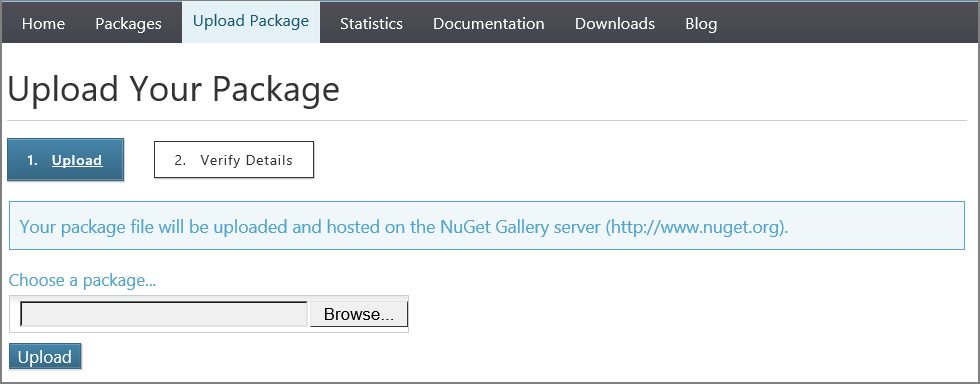
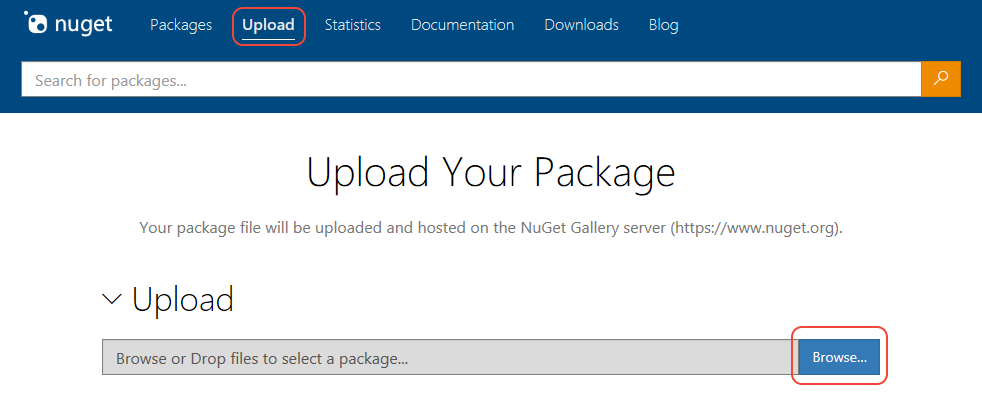
Rev VS 2015 guide and update publishing images Fix https://github.com/NuGet/docs.microsoft.com-nuget/issues/535

diff --git a/docs/create-packages/Publish-a-package.md b/docs/create-packages/Publish-a-package.md
@@ -3,7 +3,7 @@ title: How to Publish a NuGet Package | Microsoft Docs
 author: kraigb
 ms.author: kraigb
 manager: ghogen
-ms.date: 10/05/2017
+ms.date: 03/19/2018
 ms.topic: article
 ms.prod: nuget
 ms.technology: null
@@ -19,32 +19,46 @@ ms.reviewer:
 
 Once you have created a package and have your `.nukpg` file in hand, it's a simple process to make it available to other developers, either publicly or privately:
 
-- Public packages are made available to all developers globally through [nuget.org](https://www.nuget.org/packages/manage/upload) as described in this topic.
+- Public packages are made available to all developers globally through [nuget.org](https://www.nuget.org/packages/manage/upload) as described in this article (requires NuGet 4.1.0+).
 - Private packages are available to only a team or organization, by hosting them either a file share, a private NuGet server, [Visual Studio Team Services Package Management](https://www.visualstudio.com/docs/package/nuget/publish), or a third-party repository such as myget, ProGet, Nexus Repository, and Artifactory. For additional details, see [Hosting Packages Overview](../hosting-packages/overview.md).
 
-This topic covers publishing to nuget.org; for publishing to Visual Studio Team Services, see [Package Management](https://www.visualstudio.com/docs/package/nuget/publish).
+This article covers publishing to nuget.org; for publishing to Visual Studio Team Services, see [Package Management](https://www.visualstudio.com/docs/package/nuget/publish).
 
 ## Publish to nuget.org
 
-For nuget.org, you must first [register for a free account](https://www.nuget.org/users/account/LogOn?returnUrl=%2F) or sign in if already registered:
+For nuget.org, you must sign in with a Microsoft account, with which you'll be asked to register the account with nuget.org. You can also sign in with a nuget.org account created using older versions of the portal.
 
-![NuGet registration and sign in location](media/publish_NuGetSignIn.png)
+![NuGet sign in location](media/publish_NuGetSignIn.png)
 
 Next, you can either upload the package through the nuget.org web portal, push to nuget.org from the command line (requires `nuget.exe` 4.1.0+) , or publish as part of a CI/CD process through Visual Studio Team Services, as described in the following sections.
 
 ### Web portal: use the Upload Package tab on nuget.org
 
-![Upload a package with the NuGet Package Manager](media/publish_UploadYourPackage.PNG)
+1. Select **Upload** on the top menu of nuget.org and browse to the package location.
+
+    ![Upload a package on nuget.org](media/publish_UploadYourPackage.PNG)
+
+1. nuget.org tells you if the package name is available. If it isn't, change the package identifier in your project, rebuild, and try the upload again.
+
+1. If the package name is available, nuget.org opens a **Verify** section in which you can review the metadata from the package manifest. To change any of the metadata, edit your project (project file or `.nuspec` file), rebuild, recreate the package, and upload again.
+
+1. Under **Import Documentation** you can paste Markdown, point to your docs with a URL, or upload a documentation file.
+
+1. When all the information is ready, select the **Submit** button
 
 ### Command line
 
-> [!Important]
-> To push packages to nuget.org you must use [nuget.exe v4.1.0 or above](https://www.nuget.org/downloads), which implements the required [NuGet protocols](../api/nuget-protocols.md).
+To push packages to nuget.org you must use [nuget.exe v4.1.0 or above](https://www.nuget.org/downloads), which implements the required [NuGet protocols](../api/nuget-protocols.md). You also need an API key, which is created on nuget.org.
 
-1. Click on your user name to navigate to your account settings.
-1. Under **API Key**, click **copy to clipboard** to retrieve the access key you need in the CLI:
+#### Create API keys
 
-    ![Copying an API Key from account settings](media/publish_APIKey.png)
+[!INCLUDE[publish-api-key](includes/publish-api-key.md)]
+
+#### Publish with dotnet nuget push
+
+[!INCLUDE[publish-dotnet](includes/publish-dotnet.md)]
+
+#### Publish with nuget push
 
 1. At a command prompt, run the following command:
 
@@ -52,25 +66,27 @@ Next, you can either upload the package through the nuget.org web portal, push t
     nuget setApiKey Your-API-Key
     ```
 
-    This stores your API key on the machine so that you need not do this step again on the same machine.
+    This stores your API key on the machine so that you need repeat this step again on the same computer.
 
-1. Push your package to NuGet Gallery using the command:
+1. Push your package to NuGet Gallery using the following command:
 
     ```cli
     nuget push YourPackage.nupkg -Source https://api.nuget.org/v3/index.json
     ```
 
-1. Before being made public, all packages uploaded to nuget.org are scanned for viruses and rejected if any viruses are found. All packages listed on nuget.org are also scanned periodically.
-
-1. In your account on nuget.org, click **Manage my packages** to see the one that you just published; you also receive a confirmation email. Note that it might take a while for your package to be indexed and appear in search results where others can find it, during which time you see the following message on your package page:
-
-    ![Message indicating a package is not yet indexed](media/publish_NotYetIndexed.png)
-
 ### Package validation and indexing
 
-Packages pushed to nuget.org undergo several validations. When the package has passed all validation checks, it might take a while for it to be indexed and appear in search results. Once indexing is complete, you receive an email confirming that the package was successfully published. If the package fails a validation check, the package details page will update to display the associated error and you also receive an email notifying you about it.
+Packages pushed to nuget.org undergo several validations, such as virus checks. (All packages on nuget.org are periodically scanned.)
+
+. When the package has passed all validation checks, it might take a while for it to be indexed and appear in search results. Once indexing is complete, you receive an email confirming that the package was successfully published. If the package fails a validation check, the package details page will update to display the associated error and you also receive an email notifying you about it.
 
 Package validation and indexing usually takes under 15 minutes. If the package publishing is taking longer than expected, visit [status.nuget.org](https://status.nuget.org/) to check if nuget.org is experiencing any interruptions. If all systems are operational and the package hasn't been successfully published within an hour, please login to nuget.org and contact us using the Contact Support link on the package page.
+
+To see the status of a package, select **Manage packages** under your account name on nuget.org. You receive a confirmation email when validation is complete.
+
+Note that it might take a while for your package to be indexed and appear in search results where others can find it, during which time you see the following message on your package page:
+
+    ![Message indicating a package is not yet published](media/publish_NotYetIndexed.png)
 
 ### Visual Studio Team Services (CI/CD)
 
@@ -85,14 +101,14 @@ All package owners have full permissions for the package, including adding and r
 To change ownership of a package, do the following:
 
 1. Sign in to nuget.org with the account that is the current owner of the package.
-1. Click on your username, then on **Manage my packages**, then on the package you want to manage.
-1. Click the **Manage owners** link on the left side.
+1. Select your account name, select **Manage packages**, and expand **Published Packages**.
+1. Select on the package you want to manage, then on the right side select **Manage owners**.
 
 From here you have several options:
 
-1. To add an owner, enter their NuGet account name and click **Add**. This sends an email to that new co-owner with a confirmation link. Once confirmed, that person has full permissions to add and remove owners. (Until confirmed, the **Manage owners** page indicates "pending approval" for that person).
-1. To remove an owner, select their name on the **Manage owners** and click **Remove**.
-1. To transfer ownership (as when ownership changes or a package was published under the wrong account), simply add the new owner, and once they've confirmed ownership they can remove you from the list.
+1. Remove any owner listed under **Current Owners**.
+1. Add an owner under **Add Owner** by entering their user name, a message, and selecting **Add**. This action sends an email to that new co-owner with a confirmation link. Once confirmed, that person has full permissions to add and remove owners. (Until confirmed, the **Current Owners** section indicates pending approval for that person.)
+1. To transfer ownership (as when ownership changes or a package was published under the wrong account), add the new owner, and once they've confirmed ownership they can remove you from the list.
 
 To assign ownership to a company or group, create a nuget.org account using an email alias that is forwarded to the appropriate team members. For example, various Microsoft ASP.NET packages are co-owned by the [microsoft](http://nuget.org/profiles/microsoft) and [aspnet](http://nuget.org/profiles/aspnet) accounts, which simply such aliases.
 

diff --git a/docs/guides/Create-NET-Standard-Packages-VS2015.md b/docs/guides/Create-NET-Standard-Packages-VS2015.md
@@ -1,31 +1,31 @@
 ---
-title: Create .NET Standard NuGet Packages with Visual Studio 2015 | Microsoft Docs
+title: Create .NET Standard and .NET Framework NuGet Packages with Visual Studio 2015 | Microsoft Docs
 author: kraigb
 ms.author: kraigb
 manager: ghogen
-ms.date: 02/02/2018
+ms.date: 03/19/2018
 ms.topic: get-started-article
 ms.prod: nuget
 ms.technology: null
-description: An end-to-end walkthrough of creating .NET Standard NuGet packages using NuGet 3.x and Visual Studio 2015.
-keywords: create a package, .NET Standard packages, .NET Standard mapping table
+description: An end-to-end walkthrough of creating .NET Standard and .NET Framework NuGet packages using NuGet 3.x and Visual Studio 2015.
+keywords: create a package, .NET Standard packages, .NET Framework packages
 ms.reviewer:
 - karann-msft
 - unniravindranathan
 ---
 
-# Create .NET Standard packages with Visual Studio 2015
+# Create .NET Standard and .NET Framework packages with Visual Studio 2015
 
-*Applies to NuGet 3.x. See [Create and publish a package with Visual Studio 2017](../quickstart/create-and-publish-a-package-using-visual-studio.md) for working with NuGet 4.x+.*
+**Note:** Visual Studio 2017 is recommended for developing .NET Standard libraries. Visual Studio 2015 can work but the .NET Core tooling was brought only to Preview state. See [Create and publish a package with Visual Studio 2017](../quickstart/create-and-publish-a-package-using-visual-studio.md) for working with NuGet 4.x+ and Visual Studio 2017.
 
 The [.NET Standard Library](/dotnet/articles/standard/library) is a formal specification of .NET APIs intended to be available on all .NET runtimes, thus establishing greater uniformity in the .NET ecosystem. The .NET Standard Library defines a uniform set of BCL (Base Class Library) APIs for all .NET platforms to implement, independent of workload. It enables developers to produce code that is usable across all .NET runtimes, and reduces if not eliminates platform-specific conditional compilation directives in shared code.
 
-This guide walks you through creating a NuGet package targeting .NET Standard Library 1.4. Such a library works across .NET Framework 4.6.1, Universal Windows Platform 10, .NET Core, and Mono/Xamarin. For details, see the [.NET Standard mapping table](#net-standard-mapping-table) later in this topic.
+This guide walks you through creating a NuGet package targeting .NET Standard Library 1.4 or a package targeting .NET Framework 4.6. A .NET Standard 1.4 library works across .NET Framework 4.6.1, Universal Windows Platform 10, .NET Core, and Mono/Xamarin. For details, see the [.NET Standard mapping table](/dotnet/standard/net-standard#net-implementation-support) (.NET documentation). You can choose other version of the .NET Standard Library if you want.
 
 ## Prerequisites
 
 1. Visual Studio 2015 Update 3
-1. [.NET Core SDK](https://www.microsoft.com/net/download/)
+1. (.NET Standard only) [.NET Core SDK](https://www.microsoft.com/net/download/)
 1. NuGet CLI. Download the latest version of nuget.exe from [nuget.org/downloads](https://nuget.org/downloads), saving it to a location of your choice. Then add that location to your PATH environment variable if it isn't already.
 
     > [!Note]
@@ -33,13 +33,13 @@ This guide walks you through creating a NuGet package targeting .NET Standard Li
 
 ## Create the class library project
 
-1. In Visual Studio, **File > New > Project**, expand the **Visual C# > Windows** node, select **Class Library (Portable)**, change the name to AppLogger, and click OK.
+1. In Visual Studio, **File > New > Project**, expand the **Visual C# > Windows** node, select **Class Library (Portable)**, change the name to AppLogger, and select **OK**.
 
     ![Create new class library project](media/NetStandard-NewProject.png)
 
-1. In the **Add Portable Class Library** dialog that appears, select the `.NET Framework 4.6` and `ASP.NET Core 1.0` options.
+1. In the **Add Portable Class Library** dialog that appears, select the options for `.NET Framework 4.6` and `ASP.NET Core 1.0`. (If targeting .NET Framework, you can select whichever options are appropriate.)
 
-1. Right-click the `AppLogger (Portable)` in Solution Explorer, select **Properties**, select the **Library** tab, then click **Target .NET Platform Standard** in the **Targeting** section. This will prompt for confirmation, after which you can select `.NET Standard 1.4` from the drop down:
+1. If targeting .NET Standard, right-click the `AppLogger (Portable)` in Solution Explorer, select **Properties**, select the **Library** tab, then select  **Target .NET Platform Standard** in the **Targeting** section. This action prompts for confirmation, after which you can select `.NET Standard 1.4` (or another available version) from the drop down:
 
     ![Setting the target to .NET Standard 1.4](media/NetStandard-ChangeTarget.png)
 
@@ -92,11 +92,23 @@ This guide walks you through creating a NuGet package targeting .NET Standard Li
 
 1. Add reference assemblies to the `.nuspec` file, namely the library's DLL and the IntelliSense XML file:
 
+    If targeting .NET Standard, the entries appear similar to the following:
+
     ```xml
     <!-- Insert below <metadata> element -->
     <files>
         <file src="bin\Release\AppLogger.dll" target="lib\netstandard1.4\AppLogger.dll" />
         <file src="bin\Release\AppLogger.xml" target="lib\netstandard1.4\AppLogger.xml" />
+    </files>
+    ```
+
+    If targeting .NET Framework, the entries appear similar to the following:
+
+    ```xml
+    <!-- Insert below <metadata> element -->
+    <files>
+        <file src="bin\Release\AppLogger.dll" target="lib\net46\AppLogger.dll" />
+        <file src="bin\Release\AppLogger.xml" target="lib\net46\AppLogger.xml" />
     </files>
     ```
 
@@ -142,7 +154,7 @@ With the completed `.nuspec` referencing all the files you need to include in th
 nuget pack AppLogger.nuspec
 ```
 
-This will generate `AppLogger.YOUR_NAME.1.0.0.nupkg`. Opening this file in a tool like the [NuGet Package Explorer](https://github.com/NuGetPackageExplorer/NuGetPackageExplorer) and expanding all the nodes, you see the following contents:
+This generates `AppLogger.YOUR_NAME.1.0.0.nupkg`. Opening this file in a tool like the [NuGet Package Explorer](https://github.com/NuGetPackageExplorer/NuGetPackageExplorer) and expanding all the nodes, you see the following contents (shown for .NET Standard):
 
 ![NuGet Package Explorer showing the AppLogger package](media/NetStandard-PackageExplorer.png)
 
@@ -152,19 +164,6 @@ This will generate `AppLogger.YOUR_NAME.1.0.0.nupkg`. Opening this file in a too
 To make your package available to other developers, follow the instructions on [Publish a package](../create-packages/publish-a-package.md).
 
 Note that `pack` requires Mono 4.4.2 on Mac OS X and does not work on Linux systems. On a Mac, you must also convert Windows pathnames in the `.nuspec` file to Unix-style paths.
-
-## .NET Standard mapping table
-
-| Platform Name | Alias |
-| --- | --- |
-| .NET Standard | netstandard | 1.0 | 1.1 | 1.2 | 1.3 | 1.4 | 1.5 | 1.6 |
-| .NET Core | netcoreapp | &#x2192; | &#x2192; | &#x2192; | &#x2192; | &#x2192; | &#x2192; | 1.0 |
-| .NET Framework | net | 4.5 | 4.5.1 | 4.6 | 4.6.1 | 4.6.2 | 4.6.3 |
-| Mono/Xamarin Platforms | &#x2192; | &#x2192; | &#x2192; | &#x2192; | &#x2192; | &#x2192; |
-| Universal Windows Platform | uap | &#x2192; | &#x2192; | &#x2192; | &#x2192; |10.0 |
-| Windows | win| &#x2192; | 8.0 | 8.1 |
-| Windows Phone | wpa| &#x2192;| &#x2192; | 8.1 |
-| Windows Phone Silverlight | wp | 8.0 |
 
 ## Related topics
 

diff --git a/docs/quickstart/includes/publish-api-key.md b/docs/quickstart/includes/publish-api-key.md
@@ -2,10 +2,12 @@
 
 1. Select your user name (on the upper right), then select **API Keys**.
 
-1. Select **Create**, provide a name for your key, select **Select Scopes > Push**Under **API Key**, enter * for **Glob pattern**, then select **Create**.
+1. Select **Create**, provide a name for your key, select **Select Scopes > Push**. Under **API Key**, enter * for **Glob pattern**, then select **Create**. (See below for more about scopes.)
 
 1. Once the key is created, select **Copy** to retrieve the access key you need in the CLI:
 
     ![Copying the API key to the clipboard](../media/QS_Create-02-APIKey.png)
 
 1. **Important**: Save your key in a secure location because you cannot copy the key again later on. If you return to the API key page, you need to regenerate the key to copy it. You can also remove the API key if you no longer want to push packages via the CLI.
+
+Scoping allows you to create separate API keys for different purposes. Each key has its expiration timeframe and can be scoped to specific packages (or glob patterns). Each key is also scoped to specific operations: push of new packages and updates, push of updates only, or delisting. Through scoping, you can create API keys for different people who manage packages for your organization such that they have only the permissions they need. For more information, see [Introducing scoped API keys](https://blog.nuget.org/20170202/introducing-scoped-api-keys.html) (blogs.nuget.org).

diff --git a/docs/guides/create-packages-for-xamarin.md b/docs/guides/create-packages-for-xamarin.md
@@ -1,5 +1,5 @@
 ---
-title: Create NuGet Packages for Xamarin (for iOS, Android, and Windows) | Microsoft Docs
+title: Create NuGet Packages for Xamarin (for iOS, Android, and Windows) with Visual Studio 2015 | Microsoft Docs
 author: kraigb
 ms.author: kraigb
 manager: ghogen
@@ -14,11 +14,11 @@ ms.reviewer:
 - unniravindranathan
 ---
 
-# Create packages for Xamarin
+# Create packages for Xamarin with Visual Studio 2015
 
-A cross-platform package contains code that uses native APIs on iOS, Android, and Windows, depending on the run-time operating system. Although this is straightforward to do, it's preferable to let developers consume the package from a PCL or .NET Standard libraries through a common API surface area.
+A package for Xamarin contains code that uses native APIs on iOS, Android, and Windows, depending on the run-time operating system. Although this is straightforward to do, it's preferable to let developers consume the package from a PCL or .NET Standard libraries through a common API surface area.
 
-In this walkthrough you create a cross-platform NuGet package that can be used in mobile projects on iOS, Android, and Windows.
+In this walkthrough you use Visual Studio 2015 create a cross-platform NuGet package that can be used in mobile projects on iOS, Android, and Windows.
 
 1. [Prerequisites](#prerequisites)
 1. [Create the project structure and abstraction code](#create-the-project-structure-and-abstraction-code)

diff --git a/docs/TOC.md b/docs/TOC.md
@@ -32,8 +32,8 @@
 ## Guides
 ### [Create UWP packages](guides/create-uwp-packages.md)
 ### [Creating UWP controls as NuGet packages](guides/create-uwp-controls.md)
-### [Create NET Standard packages (Visual Studio 2015)](guides/create-net-standard-packages-vs2015.md)
-### [Create packages for Xamarin](guides/create-packages-for-xamarin.md)
+### [Create NET Standard/NET Framework packages with Visual Studio 2015](guides/create-net-standard-packages-vs2015.md)
+### [Create packages for Xamarin with Visual Studio 2015](guides/create-packages-for-xamarin.md)
 # Host packages
 ## [Overview](hosting-packages/overview.md)
 ## [Local feeds](hosting-packages/local-feeds.md)
